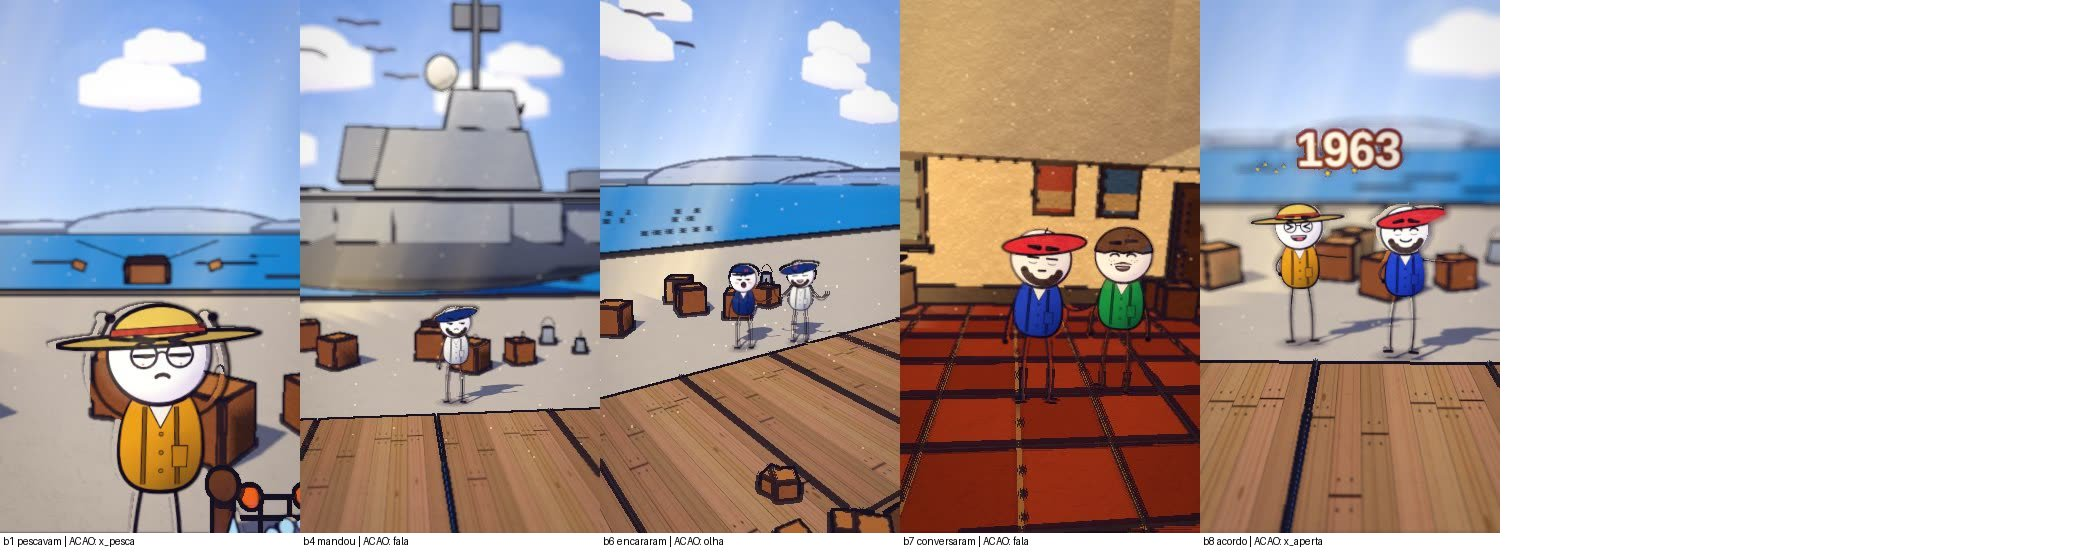
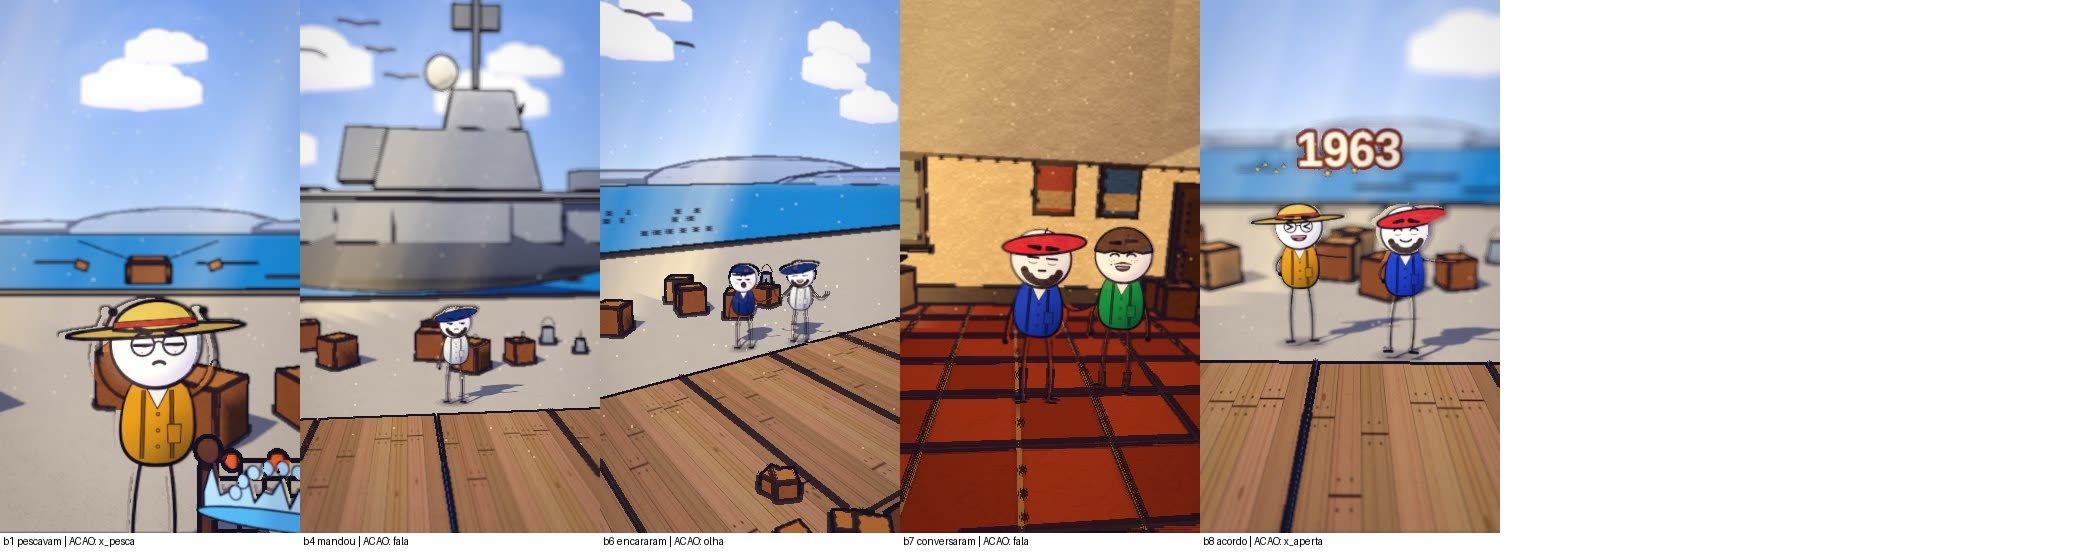
progresso da fila
Claude-Session: https://claude.ai/code/session_01HE8Dy3UcXXZZMLa7uzjNJD

Changed region(s): [[0.0, 0.517, 0.1548, 0.9732], [0.031, 0.4562, 0.0929, 0.4866]]

diff --git a/ferramenta-shorts/web/story.js b/ferramenta-shorts/web/story.js
@@ -37,7 +37,7 @@ const SPEC = {
   kicks: [], flashes: [],
   shots: [
     S('b0', A[0], A[1] - 1, X, "day", { h: 1.35, d0: 5.2, d1: 4.4, az0: -6, az1: 8, cx: 0.9, cz: -0.6, hero: { hero: 'any', frame: 'medium', minH: 0.07, main: 1 }, actors: [pp(X, "BRA", 0, 0.0, 1.3, "angry", { pose: 'argue' })], props: [{ asset: "kit/bancada", at: [X + 1.2, -0.6], s: 1.2, nocol: true, fixo: true, drop: false }, { asset: "kit/lobster", at: [X + 1.2, -0.6], s: 0.25, fixo: true, y: DK + 1.15, drop: false }], fx: [{ k: 'stars', a: A[0] + 6, b: A[0] + 40, at: [X + 1.2, DK + 1.6, -0.1], s: 0.8 }, { k: 'birds', a: A[0], b: A[1] - 1, at: [X, DK + 4.5, -30], n: 4, dir: 1, off: 8 }] }),
-    { ...S('b1', A[1], A[2] - 1, X, "day", { h: 2.8, d0: 14.8, d1: 11.8, el: 5, fov: 46, cx: 0.0, cz: -5.6, hero: { hero: 'none', wide: true }, vary: false, nocut: true, trans: 'dissolve', actors: [_MA(pp(X, "PES", 0, 0.0, -0.4, "stern"), { gests: [[WS(24) - 8, WS(24) + 46, 'lift']] })], props: [{ asset: "boat", at: [X + 0.0, -27.0], s: 2.4, fixo: true }, { asset: "kit/fishing_net", at: [X + 1.8, 0.8], s: 1.2, drop: false }], fx: [{ k: 'map', a: WS(17, -2), b: Math.min(A[2] - 1, WS(17, -2) + 54), text: "PERNAMBUCO", geo: {"polys": [[7097, 522, 7096, 522, 7096, 521, -4214, 520, -4212, 518, -4210, 518, -4211, 520, -4211, 520, -4214, 522, 7097, 522], [-659, -42, -613, -29, -570, -64, -570, -85, -586, -135, -533, -118, -476, -147, -454, -169, -441, -146, -439, -117, -433, -62, -400, -44, -380, -54, -348, -64, -320, -75, -290, -84, -264, -72, -233, -76, -203, -100, -178, -140, -144, -62, -160, -8, -202, 46, -151, 49, -117, 79, -79, 35, -50, 20, -14, 29, 33, 50, 45, 65, 56, 78, 122, 86, 233, 115, 335, 173, 343, 263, 273, 348, 232, 408, 216, 430, 209, 546, 172, 650, 122, 722, 79, 727, 40, 737, -64, 790, -82, 807, -85, 856, -149, 978, -169, 996, -159, 961, -176, 980, -216, 1053, -235, 1031, -287, 990, -316, 983, -368, 955, -318, 902, -294, 882, -263, 866, -249, 821, -269, 794, -289, 758, -306, 728, -329, 701, -369, 699, -378, 677, -381, 648, -377, 607, -375, 552, -411, 514, -458, 447, -509, 417, -555, 395, -602, 372, -611, 342, -630, 307, -700, 339, -760, 345, -776, 299, -826, 311, -861, 271, -874, 245, -875, 229, -858, 188, -819, 141, -765, 133, -739, 36, -745, 14, -747, -25, -732, -26, -753, -37, -701, -60, -674, -70], [44, 90, 40, 93, 41, 89, 41, 87, 41, 85, 43, 83, 44, 83, 44, 85, 44, 86, 44, 90], [224, 412, 223, 413, 223, 411, 226, 408, 227, 405, 228, 407, 229, 408, 229, 409, 224, 412], [219, 424, 218, 426, 217, 426, 216, 425, 216, 423, 216, 422, 217, 422, 219, 422, 219, 424], [31, 38, 29, 40, 29, 41, 27, 40, 27, 39, 28, 39, 29, 37, 31, 37, 31, 38]], "hl": [1, 2, 3, 4, 5], "pin": [254.0, 260.0]} }, { k: "puff", a: A[1] + 70, b: A[1] + 96, at: [X + 0.9, DK + 0.12, 1.0], s: 0.75 }, { k: "splash", a: WS(24) + 3, b: WS(24) + 30, at: [X + 0.6, DK + 1.6, 1.7], s: 0.6 }] }), nocut: true },
+    { ...S('b1', A[1], A[2] - 1, X, "day", { h: 2.8, d0: 15.0, d1: 13.0, el: 5, fov: 46, cx: 0.0, cz: -5.6, hero: { hero: 'none', wide: true }, vary: false, nocut: true, trans: 'dissolve', actors: [_MA(pp(X, "PES", 0, 0.0, -0.4, "stern"), { gests: [[WS(24) - 8, WS(24) + 46, 'lift']] })], props: [{ asset: "boat", at: [X + 0.0, -27.0], s: 2.4, fixo: true }, { asset: "kit/fishing_net", at: [X + 1.8, 0.8], s: 1.2, drop: false }], fx: [{ k: 'map', a: WS(17, -2), b: Math.min(A[2] - 1, WS(17, -2) + 54), text: "PERNAMBUCO", geo: {"polys": [[7097, 522, 7096, 522, 7096, 521, -4214, 520, -4212, 518, -4210, 518, -4211, 520, -4211, 520, -4214, 522, 7097, 522], [-659, -42, -613, -29, -570, -64, -570, -85, -586, -135, -533, -118, -476, -147, -454, -169, -441, -146, -439, -117, -433, -62, -400, -44, -380, -54, -348, -64, -320, -75, -290, -84, -264, -72, -233, -76, -203, -100, -178, -140, -144, -62, -160, -8, -202, 46, -151, 49, -117, 79, -79, 35, -50, 20, -14, 29, 33, 50, 45, 65, 56, 78, 122, 86, 233, 115, 335, 173, 343, 263, 273, 348, 232, 408, 216, 430, 209, 546, 172, 650, 122, 722, 79, 727, 40, 737, -64, 790, -82, 807, -85, 856, -149, 978, -169, 996, -159, 961, -176, 980, -216, 1053, -235, 1031, -287, 990, -316, 983, -368, 955, -318, 902, -294, 882, -263, 866, -249, 821, -269, 794, -289, 758, -306, 728, -329, 701, -369, 699, -378, 677, -381, 648, -377, 607, -375, 552, -411, 514, -458, 447, -509, 417, -555, 395, -602, 372, -611, 342, -630, 307, -700, 339, -760, 345, -776, 299, -826, 311, -861, 271, -874, 245, -875, 229, -858, 188, -819, 141, -765, 133, -739, 36, -745, 14, -747, -25, -732, -26, -753, -37, -701, -60, -674, -70], [44, 90, 40, 93, 41, 89, 41, 87, 41, 85, 43, 83, 44, 83, 44, 85, 44, 86, 44, 90], [224, 412, 223, 413, 223, 411, 226, 408, 227, 405, 228, 407, 229, 408, 229, 409, 224, 412], [219, 424, 218, 426, 217, 426, 216, 425, 216, 423, 216, 422, 217, 422, 219, 422, 219, 424], [31, 38, 29, 40, 29, 41, 27, 40, 27, 39, 28, 39, 29, 37, 31, 37, 31, 38]], "hl": [1, 2, 3, 4, 5], "pin": [254.0, 260.0]} }, { k: "puff", a: A[1] + 70, b: A[1] + 96, at: [X + 0.9, DK + 0.12, 1.0], s: 0.75 }, { k: "splash", a: WS(24) + 3, b: WS(24) + 30, at: [X + 0.6, DK + 1.6, 1.7], s: 0.6 }] }), nocut: true },
     { ...S('b2', A[2], Math.round(A[2] + (A[3] - 1 + 1 - (A[2])) * 0.5) - 1, X_loc_estudio, "explica", { actors: [], props: [{ asset: "kit/lobster", at: [X_loc_estudio, -2.0], s: 1.47, y: (f) => DK, ry: 0.0, drop: false }], fx: [{ k: 'passos', a: (A[2]) + 8, b: A[3] - 1, itens: ["FUNDO DO MAR", "ANDA", "BRASILEIRA"], up: 0.58 }], hero: { hero: 'none', explica: true }, trans: 'dissolve' }), cam: [{ f: A[2], at: [X_loc_estudio + 0.0, DK + 0.615, -2.0], d: 14.2, az: 26, el: 10, fov: 44 }, { f: Math.round(A[2] + (A[3] - 1 + 1 - (A[2])) * 0.5) - 1, at: [X_loc_estudio + 0.0, DK + 0.615, -2.0], d: 12.78, az: 12, el: 8, fov: 44 }], nocut: true, vary: false, creep: 0 }, { ...S('b2_x', Math.round(A[2] + (A[3] - 1 + 1 - (A[2])) * 0.5), A[3] - 1, X_loc_estudio, "explica", { actors: [], props: [{ asset: "kit/lobster", at: [X_loc_estudio, -2.0], s: 1.47, y: (f) => DK, ry: 0.0, drop: false }], fx: [{ k: 'passos', a: (A[2]) + 8, b: A[3] - 1, itens: ["FUNDO DO MAR", "ANDA", "BRASILEIRA"], up: 0.58 }], hero: { hero: 'none', explica: true }, trans: 'cut' }), cam: [{ f: Math.round(A[2] + (A[3] - 1 + 1 - (A[2])) * 0.5), at: [X_loc_estudio + 0.0, DK + 0.615, -2.0], d: 12.5, az: -20, el: 6, fov: 44 }, { f: A[3] - 1, at: [X_loc_estudio + 0.0, DK + 0.615, -2.0], d: 11.36, az: -6, el: 5, fov: 44 }], nocut: true, vary: false, glide: true, glideN: 22, creep: 0 },
     { ...S('b3', A[3], Math.round(A[3] + (A[4] - 1 + 1 - (A[3])) * 0.5) - 1, X_loc_estudio, "explica", { actors: [], props: [{ asset: "kit/lobster", at: [X_loc_estudio, -2.0], s: 1.47, y: (f) => DK + 2.4 * Math.pow(Math.min(1, Math.max(0, (f - ((A[3]) + 14)) / 40)), 1.5) + (f > ((A[3]) + 14) + 40 ? 0.1 * Math.sin((f - ((A[3]) + 14)) / 9) : 0), ry: 0.0, drop: false }], fx: [{ k: 'passos', a: (A[3]) + 8, b: A[4] - 1, itens: ["NADA", "NO MAR", "DE QUEM PESCAR"], up: 0.58 }], hero: { hero: 'none', explica: true }, trans: 'dissolve' }), cam: [{ f: A[3], at: [X_loc_estudio + 0.0, DK + 2.115, -2.0], d: 14.2, az: 26, el: 10, fov: 44 }, { f: Math.round(A[3] + (A[4] - 1 + 1 - (A[3])) * 0.5) - 1, at: [X_loc_estudio + 0.0, DK + 2.115, -2.0], d: 12.78, az: 12, el: 8, fov: 44 }], nocut: true, vary: false, creep: 0 }, { ...S('b3_x', Math.round(A[3] + (A[4] - 1 + 1 - (A[3])) * 0.5), A[4] - 1, X_loc_estudio, "explica", { actors: [], props: [{ asset: "kit/lobster", at: [X_loc_estudio, -2.0], s: 1.47, y: (f) => DK + 2.4 * Math.pow(Math.min(1, Math.max(0, (f - ((A[3]) + 14)) / 40)), 1.5) + (f > ((A[3]) + 14) + 40 ? 0.1 * Math.sin((f - ((A[3]) + 14)) / 9) : 0), ry: 0.0, drop: false }], fx: [{ k: 'passos', a: (A[3]) + 8, b: A[4] - 1, itens: ["NADA", "NO MAR", "DE QUEM PESCAR"], up: 0.58 }], hero: { hero: 'none', explica: true }, trans: 'cut' }), cam: [{ f: Math.round(A[3] + (A[4] - 1 + 1 - (A[3])) * 0.5), at: [X_loc_estudio + 0.0, DK + 2.115, -2.0], d: 12.5, az: -20, el: 6, fov: 44 }, { f: A[4] - 1, at: [X_loc_estudio + 0.0, DK + 2.115, -2.0], d: 11.36, az: -6, el: 5, fov: 44 }], nocut: true, vary: false, glide: true, glideN: 22, creep: 0 },
     { ...S('b4', A[4], A[5] - 1, X, "day", { h: 4.0, d0: 21.0, d1: 20.0, el: 5, fov: 46, cx: 0.0, cz: -2.0, hero: { hero: 'none', wide: true }, vary: false, nocut: true, trans: 'dissolve', actors: [_MA(pp(X, "MFR", 0, 0.0, -0.4, "stern"), { gests: [[WS(62) - 8, WS(62) + 46, 'point']] })], props: [{ asset: "kit/navio_destroier", at: [X + 0.0, -27.0], s: 8.27, fixo: true, drop: false }], fx: [{ k: 'birds', a: A[4], b: A[5] - 1, at: [X, DK + 6.0, -30], n: 5, dir: 1, off: 8 }] }), nocut: true },

diff --git a/ferramenta-shorts/stories/lagosta1961/cronograma.md b/ferramenta-shorts/stories/lagosta1961/cronograma.md
@@ -29,13 +29,13 @@ N | Etapa | O que confere | Estado | Proximo passo
 5 | Voz | narracao neural gerada e tempos por palavra | FEITO | 
 6 | Estilo e enquadramento | autoajuste de luz/cor e ajuste de camera de cada tomada | FEITO | 
 7 | Gates | camera OK, todas as tomadas OK, estilo OK | FEITO | 
-8 | Storyboard e grade de acoes | video inteiro em quadros + 1 quadro no instante de cada acao | PENDENTE | 
-9 | Revisao escrita e aprovacao | uma linha por frase conferindo com a folha 3 e com o quadro da pesquisa | BLOQUEADO (etapa anterior pendente) | ./aprovar_storyboard.sh lagosta1961
+8 | Storyboard e grade de acoes | video inteiro em quadros + 1 quadro no instante de cada acao | FEITO | 
+9 | Revisao escrita e aprovacao | uma linha por frase conferindo com a folha 3 e com o quadro da pesquisa | PENDENTE | ./aprovar_storyboard.sh lagosta1961
 10 | Render | todos os quadros renderizados nesta versao das folhas | BLOQUEADO (etapa anterior pendente) | 
 11 | Montagem e som | trechos + voz + musica + efeitos; volume normalizado | BLOQUEADO (etapa anterior pendente) | 
 12 | Conferencia | conferir.sh sem falha e folha de contato olhada | BLOQUEADO (etapa anterior pendente) | ./conferir.sh lagosta1961
 13 | Auditoria das acoes | 1 quadro do mp4 em cada palavra de acao | BLOQUEADO (etapa anterior pendente) | bash auditar_acoes.sh local lagosta1961 <mp4>
 14 | Entrega | mp4 original 1080x1920 enviado; commit e push | BLOQUEADO (etapa anterior pendente) | 
 
-**Etapa atual:** 8. Storyboard e grade de acoes
+**Etapa atual:** 9. Revisao escrita e aprovacao
 
